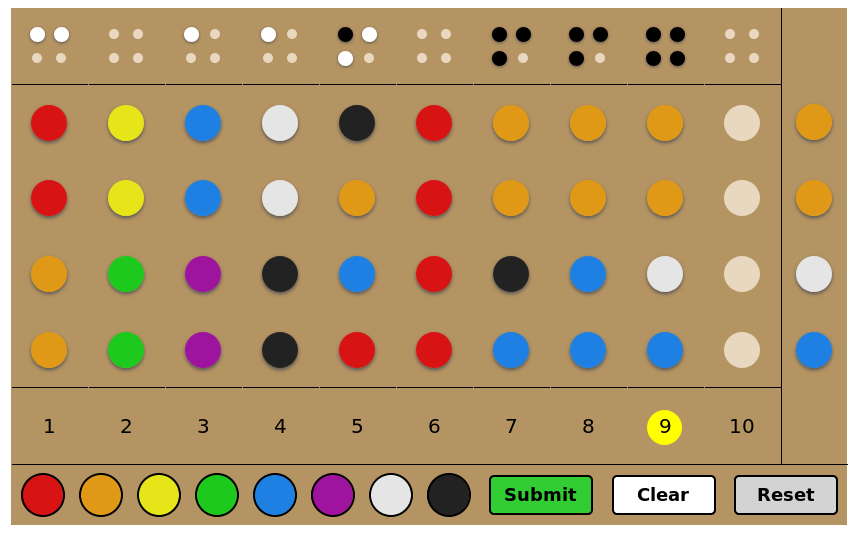
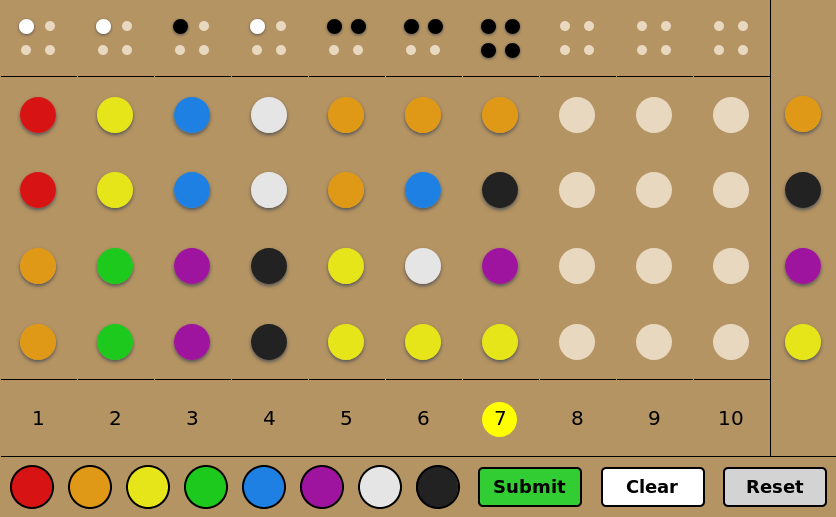
added washcycle picture, tweaked project css

diff --git a/src/components/Projects.js b/src/components/Projects.js
@@ -8,10 +8,10 @@ class Projects extends Component {
         <div className = "section-projects" id = "projects">
             <h2 className="heading">Projects</h2>
             <div className = "projectWrap">
-              <Project imagePath="images/mastermindScreenShot.png"/>
-              <Project imagePath="http://placeimg.com/1000/500/tech?t=1509152053103"/>
-              <Project imagePath="http://placeimg.com/1000/500/tech?t=1509152053103"/>
-              <Project imagePath="http://placeimg.com/1000/500/tech?t=1509152053103"/>
+              <Project imagePath="images/mastermindScreenShot.png" projectName="Mastermind"/>
+              <Project imagePath="images/washcycleScreenShot.png" projectName="Washcycle"/>
+              <Project imagePath="http://placeimg.com/1000/500/tech?t=1509152053103" projectName="Test"/>
+              <Project imagePath="http://placeimg.com/1000/500/tech?t=1509152053103" projectName="Test"/>
             </div>
         </div>
     );

diff --git a/src/components/Project.js b/src/components/Project.js
@@ -7,12 +7,12 @@ class Project extends Component {
         <div className="project__card">
           <img className="project__image" src={this.props.imagePath} />
           <div className="project__info">
-            <p>This is a short blurb of text about this project.</p>
-            <div className="project__icons">
-              <a alt="a project" href="#"><i className="fa fa-external-link fa-2x"></i></a>
-              <a alt="a project" href="#"><i className="fa fa-github fa-2x"></i></a>
-            </div>
+            <h3 className="project__info__name">{this.props.projectName}</h3>
+            <a className="project__info__link" href="https://www.github.com/OctoNerd">View on Github</a>
+            <a className="project__info__link" href="#">View live site</a>
           </div>
+          <p className="project__description">This is a short blurb of text about this project.</p>
+          
         </div>
     );
   }

diff --git a/src/components/Project.css b/src/components/Project.css
@@ -1,25 +1,28 @@
-* {
-    box-sizing: border-box;
-}
-
 .project__card {
-    width: 300px;
-    outline: 1px solid black;
+    width: 500px;
     background-color: white;
+    border: 1px solid black;
+    position: relative;
     margin-bottom: 50px;
+    box-shadow: 2px 2px 2px 1px rgba(0, 0, 0, 0.2);
 }
 
 .project__image {
-    width: 300px;
-    outline: 1px solid black;
+    width: 100%;
+    display: block;
 }
 
 .project__info {
-    margin: 0;
-    outline: 1px solid black;
+    background-color: white;
+    text-align: center;
 }
 
-.project__info p {
+.project__info__name {
+    margin: 0;
+    float: left;
+}
+
+.project__info__description {
     margin: 0;
 }
 

diff --git a/src/components/Header.css b/src/components/Header.css
@@ -24,6 +24,12 @@ header {
     list-style: none;
     margin: .5em;
     display: inline-block;
+    transition: transform 0.1s;
+    transition-timing-function: ease-in-out;
+}
+
+.menu__item:hover {
+    transform: scale(1.07);
 }
 
 .menu__item a {
@@ -32,6 +38,5 @@ header {
 }
 
 .menu__item a:hover {
-    color: lightgray;
     text-decoration: underline;
 }
